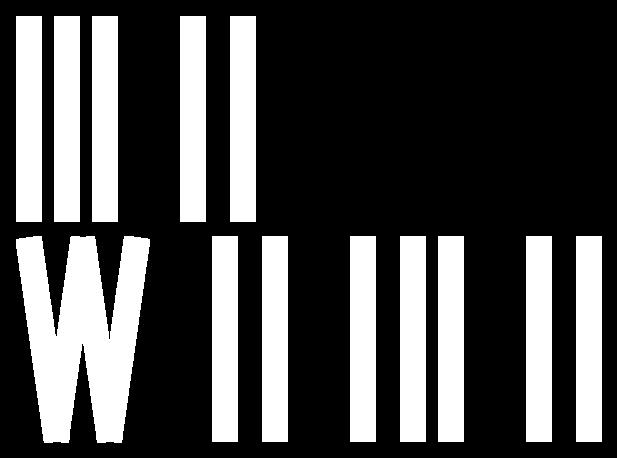
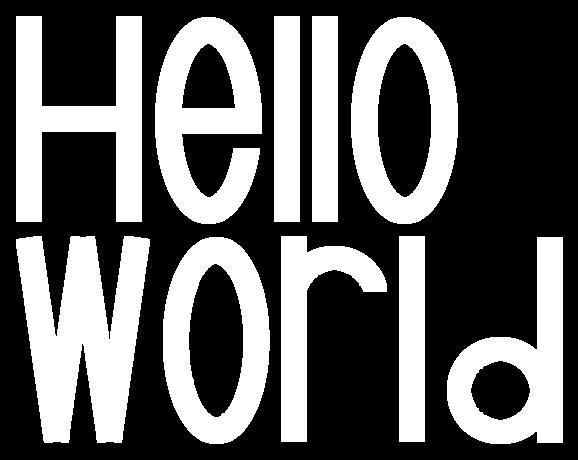
Avant dernier commit

diff --git a/labo/src/tp1/LetterFactory.java b/labo/src/tp1/LetterFactory.java
@@ -1,5 +1,7 @@
 package tp1;
 
+import java.util.GregorianCalendar;
+
 public final class LetterFactory {
     final static Double maxHeight = 200.0;
     final static Double maxWidth = maxHeight / 2;
@@ -9,31 +11,38 @@ public final class LetterFactory {
 
     // TODO
     public static BaseShape create_H() {
-        Double degrees15 = Math.toRadians(8); //pas sur
-        BaseShape mainStripe = new Rectangle(stripeThickness, maxHeight*2);
-        BaseShape leftStripe = mainStripe.rotate(-degrees15).translate(new Point2d(-maxHeight, 0.0));
-
-//        BaseShape verticalStripe = new Rectangle(stripeThickness, halfMaxHeight);
-//        verticalStripe.rotate(degrees90).translate(new Point2d(-halfMaxWidth, halfMaxHeight));
-//        horizontalLeftStripe.add(verticalStripe);
-//        horizontalLeftStripe.add(horizontalRightStripe);
+        Double degrees90 = Math.toRadians(90);
+        Double spacing = stripeThickness * 2;
+        BaseShape mainStripe = new Rectangle(stripeThickness, maxHeight);
+        BaseShape mainLittleStripe = new Rectangle(stripeThickness, halfMaxHeight);
+        BaseShape leftStripe = mainStripe.translate(new Point2d(-spacing - 10, 0.0));
+        BaseShape middleStripe = mainLittleStripe.rotate(degrees90).translate(new Point2d(0.0, 0.0));
+        BaseShape rightStripe = mainStripe.translate(new Point2d(halfMaxWidth , 0.0));
+        leftStripe.add(middleStripe);
+        leftStripe.add(rightStripe);
         return leftStripe;
     }
 
     // TODO
     public static BaseShape create_e() {
-//        Double degree90 = Math.toRadians(48); //
-//        BaseShape horizontalStripe = new Rectangle(stripeThickness, maxHeight);
-//        BaseShape bottomStripe = new Rectangle(stripeThickness, halfMaxHeight);
-//        bottomStripe.rotate(degree90);
-//        BaseShape middleStripe = bottomStripe.translate(new Point2d(0.0, halfMaxHeight));
-//        BaseShape topStripe = bottomStripe.translate(new Point2d(0.0, maxHeight));
-//        horizontalStripe.add(bottomStripe);
-//        horizontalStripe.add(middleStripe);
-//        horizontalStripe.add(topStripe);
-//        return horizontalStripe;
-        BaseShape horizontalStripe = new Rectangle(stripeThickness, maxHeight);
-        return horizontalStripe;
+        Double degrees90 = Math.toRadians(90);
+        Double spacing = stripeThickness * 2;
+
+        BaseShape mainStripe = new Rectangle(stripeThickness, halfMaxHeight);
+        BaseShape eBar = mainStripe.rotate(-degrees90);
+        BaseShape mainRemove = new Rectangle(stripeThickness, halfMaxHeight);
+        BaseShape eBarRemove = mainRemove.rotate(-degrees90).translate(new Point2d(halfMaxHeight/2, stripeThickness));
+
+        BaseShape ellipse = new Ellipse(maxWidth, maxHeight);
+        for(int i = 0; i<maxWidth/2 -10; i++)
+        {
+            BaseShape ellipseC = new Ellipse(maxWidth-i, maxHeight - i);
+            ellipse.add(ellipseC);
+        }
+
+        ellipse.add(eBar);
+        ellipse.remove(eBarRemove);
+        return ellipse;
     }
 
     // TODO
@@ -44,15 +53,14 @@ public final class LetterFactory {
 
     // TODO
     public static BaseShape create_o() {
-        Double degrees90 = Math.toRadians(48); //pas sur
-        BaseShape horizontalLeftStripe = new Rectangle(stripeThickness, maxHeight);
-        BaseShape horizontalRightStripe = horizontalLeftStripe.translate(new Point2d(halfMaxWidth, 0.0));
-        horizontalLeftStripe.translate(new Point2d(-halfMaxWidth, 0.0));
-        BaseShape verticalStripe = new Rectangle(stripeThickness, halfMaxHeight);
-        verticalStripe.rotate(degrees90).translate(new Point2d(-halfMaxWidth, halfMaxHeight));
-        horizontalLeftStripe.add(verticalStripe);
-        horizontalLeftStripe.add(horizontalRightStripe);
-        return horizontalLeftStripe;
+        BaseShape ellipse = new Ellipse(maxWidth, maxHeight);
+        for(int i = 0; i<maxWidth/2 -10; i++)
+        {
+            BaseShape ellipseC = new Ellipse(maxWidth-i, maxHeight - i);
+            ellipse.add(ellipseC);
+        }
+
+        return  ellipse;
     }
 
     // On vous donne la lettre W comme exemple.
@@ -72,27 +80,37 @@ public final class LetterFactory {
 
     // TODO
     public static BaseShape create_r() {
-        Double degrees90 = Math.toRadians(48); //pas sur
-        BaseShape horizontalLeftStripe = new Rectangle(stripeThickness, maxHeight);
-        BaseShape horizontalRightStripe = horizontalLeftStripe.translate(new Point2d(halfMaxWidth, 0.0));
-        horizontalLeftStripe.translate(new Point2d(-halfMaxWidth, 0.0));
-        BaseShape verticalStripe = new Rectangle(stripeThickness, halfMaxHeight);
-        verticalStripe.rotate(degrees90).translate(new Point2d(-halfMaxWidth, halfMaxHeight));
-        horizontalLeftStripe.add(verticalStripe);
-        horizontalLeftStripe.add(horizontalRightStripe);
-        return horizontalLeftStripe;
+        Double degrees90 = Math.toRadians(90);
+        Double spacing = stripeThickness * 2;
+        Double rectangleH = 150.00;
+        Double rectangleW = maxWidth;
+
+        BaseShape mainCircle = new Circle(halfMaxHeight).translate(new Point2d(0.0, -halfMaxWidth + 10));
+        for(int i = 0; i < halfMaxWidth / 2 + 10; i++){
+            BaseShape littleCircle = new Circle(halfMaxHeight - i).translate(new Point2d(0.0, -halfMaxWidth + 10));
+            mainCircle.add(littleCircle);
+        }
+
+        BaseShape mainRemove = new Rectangle(rectangleW, rectangleH);
+        BaseShape eBarRemove = mainRemove.translate(new Point2d(2.0, 25.00));
+        BaseShape mainStripe = new Rectangle(stripeThickness, maxHeight);
+        BaseShape leftStripe = mainStripe.translate(new Point2d(-spacing, 0.0));
+
+        BaseShape horizontalStripe = new Rectangle(stripeThickness, maxHeight);
+        mainCircle.remove(eBarRemove);
+        mainCircle.add(leftStripe);
+        return mainCircle;
     }
 
     // TODO
     public static BaseShape create_d() {
-        Double degrees90 = Math.toRadians(48); //pas sur
-        BaseShape horizontalLeftStripe = new Rectangle(stripeThickness, maxHeight);
-        BaseShape horizontalRightStripe = horizontalLeftStripe.translate(new Point2d(halfMaxWidth, 0.0));
-        horizontalLeftStripe.translate(new Point2d(-halfMaxWidth, 0.0));
-        BaseShape verticalStripe = new Rectangle(stripeThickness, halfMaxHeight);
-        verticalStripe.rotate(degrees90).translate(new Point2d(-halfMaxWidth, halfMaxHeight));
-        horizontalLeftStripe.add(verticalStripe);
-        horizontalLeftStripe.add(horizontalRightStripe);
-        return horizontalLeftStripe;
+       BaseShape mainCircle = new Circle(halfMaxHeight).translate(new Point2d(0.0, halfMaxWidth));
+       for(int i = 0; i < halfMaxWidth / 2 + 10; i++){
+           BaseShape littleCircle = new Circle(halfMaxHeight - i).translate(new Point2d(0.0, halfMaxWidth));
+           mainCircle.add(littleCircle);
+       }
+       BaseShape rightStripe = new Rectangle(stripeThickness, maxHeight).translate(new Point2d(halfMaxWidth, 0.0));
+       mainCircle.add(rightStripe);
+       return mainCircle;
     }
 }
